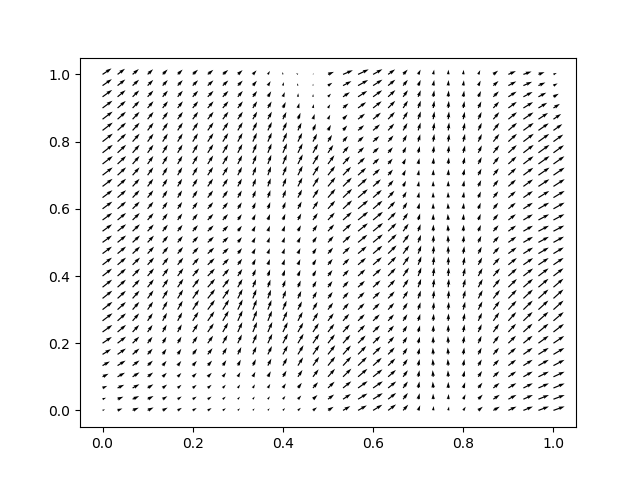
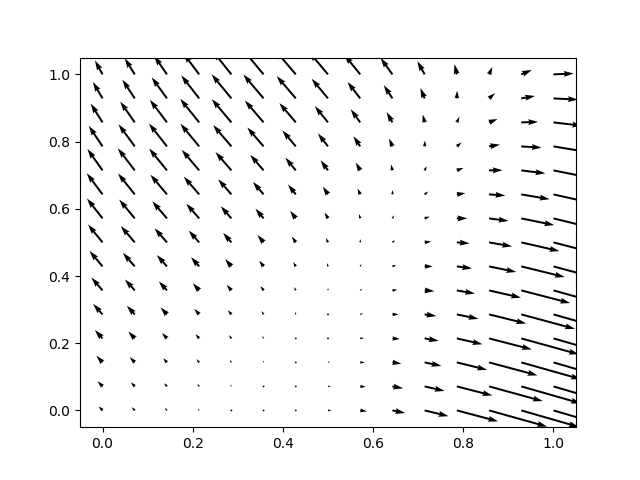
N-dim grad learning works

Changed region(s): [[0.125, 0.125, 0.9062, 0.9062], [0.875, 0.125, 0.9062, 0.1562], [0.75, 0.125, 0.7812, 0.1562]]

diff --git a/python_prototype_ndim.py b/python_prototype_ndim.py
@@ -9,12 +9,13 @@ import matplotlib.pyplot as plt
 
 #Define layers, always 2 hidden layers but can change size.
 input_dim = 2
-hidden_layer1 = 12
-hidden_layer2 = 8
+hidden_layer1 = 8
+hidden_layer2 = 4
 output_dim = 1
 
-importing = 1
-loadw = 1
+importing = 0
+loadw = 0
+iterations = 50000
 
 # sigmoid function
 def nonlin(x,y=0):
@@ -29,20 +30,39 @@ def nonlin(x,y=0):
 if (importing == 0):
 
 	#Training data size
-	dataset = 100
+	dataset = 15
 
 	# input dataset
-	X = np.linspace(0.0,1,dataset)
+	X1,X2 = np.meshgrid(np.linspace(0,1,dataset),np.linspace(0,1,dataset))
+	X1l = np.reshape(X1,(dataset*dataset,1))
+	X2l = np.reshape(X2,(dataset*dataset,1))
+	X=np.hstack((np.reshape(X1,(dataset*dataset,1)),np.reshape(X2,(dataset*dataset,1))))
 		
 	# output dataset            
-	y = np.power(X,2) + 0.0*np.random.random(dataset)
+	#y = (np.reshape(X1,(dataset*dataset,1))*np.reshape(X2,(dataset*dataset,1)))
+	#y = np.sin(np.reshape(X1,(dataset*dataset,1)))+np.exp(np.reshape(X2,(dataset*dataset,1)))
+	#y = np.reshape(X1,(dataset*dataset,1))
+	#y = np.reshape(X1,(dataset*dataset,1)) - 0.5*np.reshape(X2,(dataset*dataset,1))
+	a = 0.4
+	b = 0.8
+	y = (np.power(a-X1l,2) + b*np.power(X2l-np.power(X1l,2),2))
+	scale = np.amax(y)
+	y = y/scale
+
+	#z = X
+	#z = np.hstack((np.sin(np.reshape(X1,(dataset*dataset,1))),np.exp(np.reshape(X2,(dataset*dataset,1)))))
+	z  = np.ones((dataset*dataset,2))
+	z[:,0] = (-2*a + 4*b*np.power(X1l,3) - 4*b*X1l*X2l + 2*X1l)[:,0]/scale
+	z[:,1] = (2*b*(X2l-np.power(X1l,2)))[:,0]/scale
 
 	# switch to column format
-	X = np.reshape(X,(dataset,1))
-	y = np.reshape(y,(dataset,1))
+	#X = np.reshape(X,(dataset,1))
+	#y = np.reshape(y,(dataset,1))
 
 	# derivative dataset
-	z = 2*X
+	#z = 2*X
+
+	dataset = dataset*dataset
 
 else:
 	#X = np.loadtxt('adp_ann_example')
@@ -103,7 +123,7 @@ syn1 = 2*np.random.random((hidden_layer1,hidden_layer2)) - 1
 syn2 = 2*np.random.random((hidden_layer2,output_dim)) - 1
 
 if(0):
-	for iter in xrange(20000):
+	for iter in xrange(iterations):
 
 		# forward propagation
 		l0 = X
@@ -188,10 +208,6 @@ if(0):
 
 if(1):
 
-	print syn0.shape
-	print syn1.shape
-	print syn2.shape
-
 	if(loadw == 0):
 		syn0 = 2*np.random.random((input_dim,hidden_layer1)) - 1
 		syn1 = 2*np.random.random((hidden_layer1,hidden_layer2)) - 1
@@ -204,18 +220,14 @@ if(1):
 		syn2 = np.reshape(syn2,(syn2.shape[0],1))
 		print "loaded"
 
-	print syn0.shape
-	print syn1.shape
-	print syn2.shape
-
 	grad0 = syn0
 	grad1 = syn1
 	grad2 = syn2
 
-	alpha = 0.01
-	beta = 0.9
+	alpha = 0.02
+	beta = 0.7
 
-	for iter in xrange(20000):
+	for iter in xrange(iterations):
 
 		# forward propagation
 		l0 = X
@@ -227,6 +239,7 @@ if(1):
 		l0d = np.ones((dataset,input_dim))
 		l0da = np.zeros((dataset,input_dim))
 		l0db = np.zeros((dataset,input_dim))
+		# switched, not sure why
 		l0da[:,0] = 1
 		l0db[:,1] = 1
 		
@@ -237,7 +250,6 @@ if(1):
 		l1db = np.dot(l0db,syn0)*nonlin(l1,1)
 		l2db = np.dot(l1db,syn1)*nonlin(l2,1)
 		l3db = np.dot(l2db,syn2)*nonlin(l3,1)
-
 
 		# define error
 		dEdl3 = (y - l3) * 0
@@ -299,9 +311,15 @@ if(1):
 			print " "
 
 	
-	xg = np.reshape(X[:,0], (31, 31))
-	yg = np.reshape(X[:,1], (31, 31))
-	l3g = np.reshape(-l3, (31,31))
+	xg = X1
+	yg = X2
+	zg = np.reshape(y, (np.sqrt(dataset),np.sqrt(dataset)))
+	l3g = np.reshape(l3, (np.sqrt(dataset),np.sqrt(dataset)))
+
+	plt.figure()
+	plt.contour(xg, yg, zg,colors='k')
+	plt.contourf(xg, yg, zg)
+	plt.savefig('training_data.png')
 
 	plt.figure()
 	plt.contour(xg, yg, l3g,colors='k')
@@ -309,8 +327,22 @@ if(1):
 	plt.savefig('nn_output.png')
 
 	plt.figure()
+	plt.quiver(X[:,0],X[:,1],z[:,0],z[:,1])
+	plt.savefig('training_gradient.png')
+
+	num_gradientx, num_gradienty = np.gradient(zg)
+	plt.figure()
+	plt.quiver(X[:,0],X[:,1],num_gradienty,num_gradientx)
+	plt.savefig('num_gradient_of_training_data.png')
+
+	plt.figure()
 	plt.quiver(X[:,0],X[:,1],l3da,l3db)
 	plt.savefig('nn_gradient.png')
+
+	num_gradientx, num_gradienty = np.gradient(l3g)
+	plt.figure()
+	plt.quiver(X[:,0],X[:,1],num_gradienty,num_gradientx)
+	plt.savefig('num_gradient_of_nn_output.png')
 
 	np.savetxt('syn0',syn0)
 	np.savetxt('syn1',syn1)
